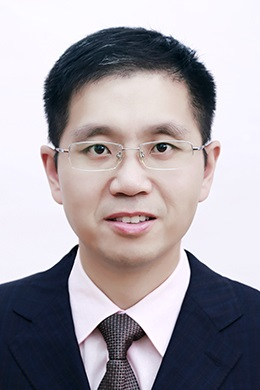
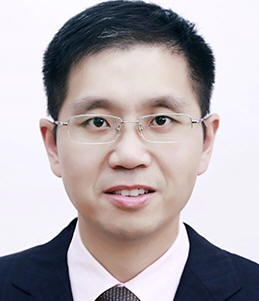
Add files via upload

diff --git a/teammembers.htm b/teammembers.htm
@@ -32,11 +32,11 @@ p
 	<tr>
 		<td width="222" height="0" align="center" valign="top">
 		<p align="left" style="text-align: center">
-		<img border="0" src="Kevin.jpg"></td>
+		<img border="0" src="Kevin.jpg" width="149" height="148"></td>
 		<td width="226" height="0" align="center" valign="top">
-		<img border="0" src="Mohammad.jpg" width="142" height="146"></td>
+		<img border="0" src="Mohammad.jpg" width="145" height="150"></td>
 		<td height="0" align="center" valign="top" width="209">
-		<img border="0" src="Hanlin.jpg"></td>
+		<img border="0" src="Hanlin.jpg" width="151" height="146"></td>
 		<td height="0" align="center" valign="top" width="223">
 		<img border="0" src="Qianru.jpg" width="153" height="150"></td>
 	</tr>
@@ -88,7 +88,7 @@ p
 		<td height="0" align="center" valign="top" width="209">
 		<img border="0" src="Atif.jpg"></td>
 		<td height="0" align="center" valign="top" width="223">
-		<img border="0" src="Henglin.jpg" width="134" height="145"></td>
+		<img border="0" src="Henglin.jpg" width="130" height="141"></td>
 	</tr>
 	<tr>
 		<td width="222" height="0" align="center" valign="top">
@@ -134,9 +134,9 @@ p
 	</tr>
 	<tr>
 		<td width="222" height="0" align="center" valign="top">
-		<img border="0" src="Yuhua.jpg"></td>
+		<img border="0" src="Yuhua.jpg" width="145" height="144"></td>
 		<td width="226" height="0" align="center" valign="top">
-		<img border="0" src="Xu.jpg" width="101" height="145"></td>
+		<img border="0" src="Xu.jpg" width="125" height="143"></td>
 		<td height="0" align="center" valign="top" width="209">
 		&#12288;</td>
 		<td height="0" align="center" valign="top" width="223">
